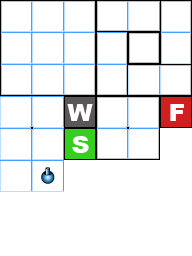
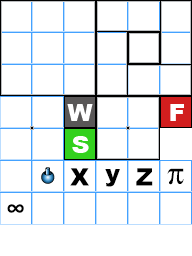
GUI Implemented and working

Changed region(s): [[0.0, 0.625, 1.0, 0.9062]]

diff --git a/TDKit/HelloWorldLayer.m b/TDKit/HelloWorldLayer.m
@@ -41,7 +41,7 @@
 	// Apple recommends to re-assign "self" with the "super's" return value
 	if( (self=[super init]) ) {
         
-        _selectedTool = kTDHole;
+        _selectedTool = kTDBlaster;
 		
 		_map = [[TDMap alloc] initWithTMXFile:@"Maps/Template.tmx"];
 		[self addChild:_map];
@@ -91,21 +91,40 @@
 	pos = [_map tileForPosition:pos];
     
     
-    /*
-    if(pos.x == 6 && pos.y == 22)
+    
+    
+    if((pos.x >= 7 && pos.x <= 9) && (pos.y >= 21 && pos.y <= 23))
     {
-        _selectedTool = kTDTower;
+        _selectedTool = kTDBlaster;
     }
-    if(pos.x == 4 && pos.y == 22)
+    
+    if((pos.x >= 10 && pos.x <= 12) && (pos.y >= 21 && pos.y <= 23))
     {
-        _selectedTool = kTDHole;
+        _selectedTool = kTDBeam;
     }
-    */
+    
+    if((pos.x >= 13 && pos.x <= 15) && (pos.y >= 21 && pos.y <= 23))
+    {
+        _selectedTool = kTDSpazer;
+    }
 
 	
 	if (![_map isWallAt:pos])
 	{
-        int rand = [self randFloatBetween:1 and:100];
+        if(_selectedTool == kTDBlaster)
+        {
+            [_map addTower:[NNTower entityWithConfig:@"tower_blaster"] atTile:pos];
+        }
+        else if(_selectedTool == kTDBeam)
+        {
+            [_map addTower:[NNTower entityWithConfig:@"tower_beam"] atTile:pos];
+        }
+        else if(_selectedTool == kTDSpazer)
+        {
+            [_map addTower:[NNTower entityWithConfig:@"tower_spazer"] atTile:pos];
+        }
+        
+        /*int rand = [self randFloatBetween:1 and:100];
         if(rand < 33)
         {
             [_map addTower:[NNTower entityWithConfig:@"tower_blaster"] atTile:pos];
@@ -118,6 +137,7 @@
         {
             [_map addTower:[NNTower entityWithConfig:@"tower_beam"] atTile:pos];
         }
+         */
 	}
 }
 

diff --git a/TDKit/TDConstants.h b/TDKit/TDConstants.h
@@ -23,8 +23,11 @@ typedef enum {
 } kTDEntity;
 
 typedef enum {
-	kTDTower                = 701,
-	kTDHole                 = 702
+	kTDBlaster              = 701,
+	kTDBeam                 = 702,
+    kTDSpazer               = 703,
+	kTDSplash               = 704,
+    kTDTime                 = 705
 } kTDSelected;
 
 #endif
